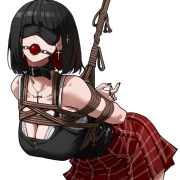
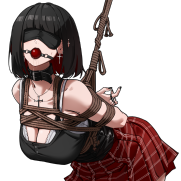
fix warning by giving the two properties initial values improved the square image to not have the white around the edges (it's technically 181x181) remove the original large bound.png embedded resource

Changed region(s): [[0.0278, 0.0, 1.0, 1.0], [0.3333, 0.1111, 0.3611, 0.1389]]

diff --git a/TruthOrDare/Plugin.cs b/TruthOrDare/Plugin.cs
@@ -48,8 +48,8 @@ public sealed class Plugin : IDalamudPlugin
 
     public static Version Version = System.Reflection.Assembly.GetExecutingAssembly().GetName().Version!;
     private const string CommandName = "/truthordare";
-    public string HostCharacterName {  get; private set; } // Name of the player running the game
-    public string HostHomeWorld {  get; private set; } // World of the player running the game
+    public string HostCharacterName { get; private set; } = "Unknown Name"; // Name of the player running the game
+    public string HostHomeWorld { get; private set; } = "Unknown"; // World of the player running the game
 
     public bool IsRunning { get; private set; }
     private bool isDummyProcessing = false;
@@ -90,10 +90,7 @@ public sealed class Plugin : IDalamudPlugin
         // Service
         pluginInterface.Create<Service>();
         Service.plugin = this;
-
-        //MacroSharedLock = new MacroSharedLock(Framework, Service.Logger);
         Service.ChatServer = new ChatServer(SigScanner);
-       // Service.ChatSender = new ChatSender(Service.ChatServer, Framework, MacroSharedLock, Service.Logger);
 
         // You might normally want to embed resources and load them from the manifest stream
         var boundImagePath = Path.Combine(pluginInterface.AssemblyLocation.Directory?.FullName!, "bound181x256.png");
